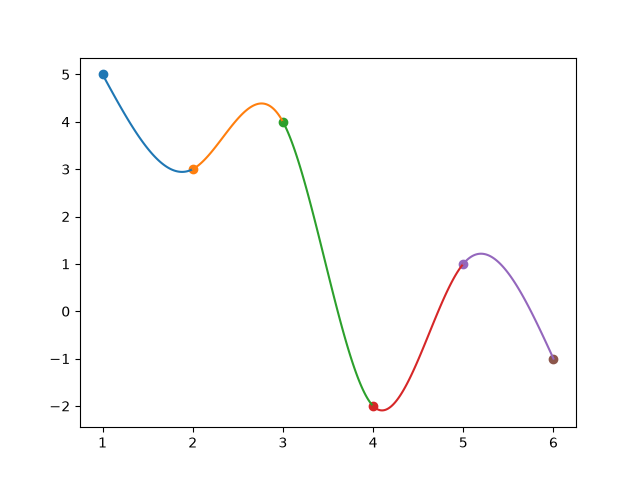
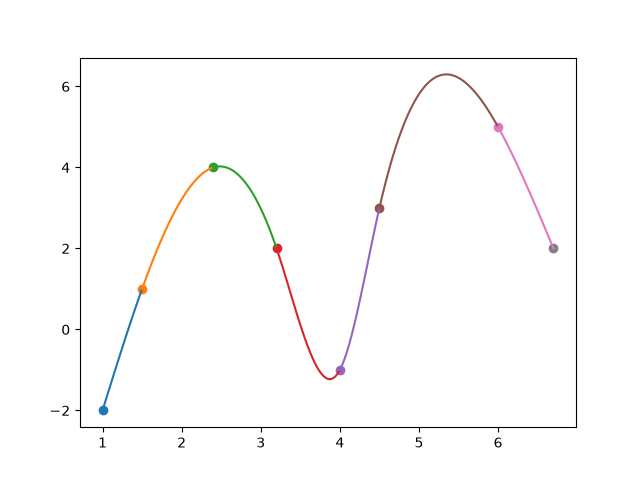
Impresion de valores

diff --git a/metodos-numericos/splines.py b/metodos-numericos/splines.py
@@ -1,8 +1,11 @@
 import numpy as np
 import scipy as sp
 import matplotlib.pyplot as plt
+import pandas as pd
 
-puntos = [(1,5), (2,3), (3,4), (4,-2), (5,1), (6,-1)]
+puntos = np.array([(1,-2),(1.5, 1), (2.4,4), (3.2,2), (4,-1), (4.5,3), (6,5), (6.7,2)])
+px, py =  puntos[:, 0], puntos[:,1]
+
 arr_h = []
 for i in range(len(puntos) - 1):
     arr_h.append(puntos[i+1][0] - puntos[i][0])
@@ -39,3 +42,12 @@ for i in range(l):
 plt.scatter(puntos[-1][0], puntos[-1][1])
 
 plt.savefig('spline.png')
+data = {
+        "x" : px,
+        "a" : py,
+        "b" : [*arr_b, 'N/A'],
+        "c" : arr_c,
+        "d" : [*arr_d, 'N/A'],
+        }
+df = pd.DataFrame(data)
+print(df)
